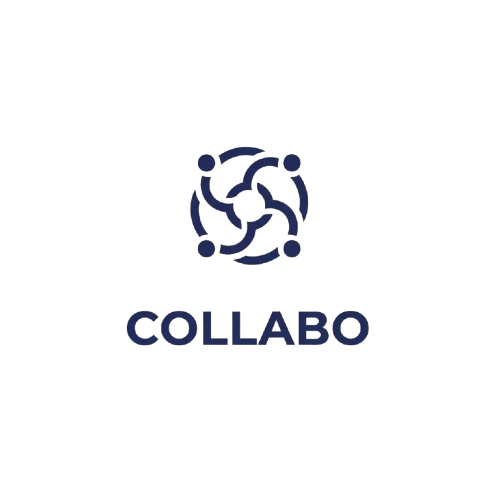
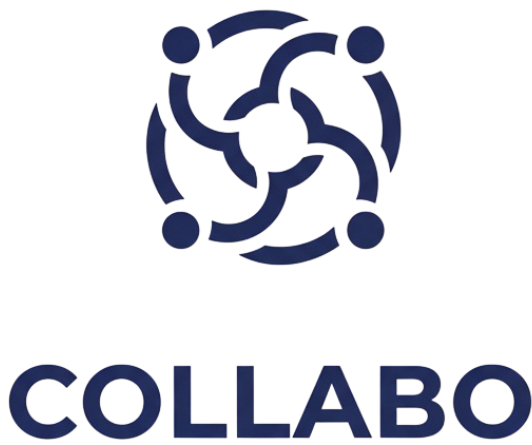
darkmode

Changed region(s): [[0.24, 0.0, 0.78, 0.7011], [0.0, 0.818, 1.0, 0.9933]]

diff --git a/components/layout/Sidebar.tsx b/components/layout/Sidebar.tsx
@@ -47,9 +47,24 @@ export function Sidebar() {
 
     return (
         <aside className="flex flex-col h-screen w-52 border-r bg-background" aria-label="Main navigation">
-            <div className="px-4 pt-4 pb-0 border-b flex items-center justify-center z-10 relative">
-                <Link href="/dashboard" className="flex items-center gap-2" aria-label="Collabo Home">
-                    <Image src="/logo.png?v=4" alt="Collabo Logo" width={200} height={80} className="h-36 w-auto -mb-6 -mt-10" priority />
+            <div className="px-4 py-6 border-b flex items-center justify-center z-10 relative">
+                <Link href="/dashboard" className="flex flex-col items-center gap-2" aria-label="Collabo Home">
+                    <Image 
+                        src="/icon.png" 
+                        alt="Collabo Logo" 
+                        width={80} 
+                        height={80} 
+                        className="h-16 w-auto dark:hidden" 
+                        priority 
+                    />
+                    <Image 
+                        src="/collabologowhitenoback.png" 
+                        alt="Collabo Logo" 
+                        width={80} 
+                        height={80} 
+                        className="h-16 w-auto hidden dark:block" 
+                        priority 
+                    />
                 </Link>
             </div>
 

diff --git a/app/globals.css b/app/globals.css
@@ -54,25 +54,25 @@
   }
 
   .dark {
-    --background: 222.2 84% 4.9%;
-    --foreground: 210 40% 98%;
-    --card: 222.2 84% 4.9%;
-    --card-foreground: 210 40% 98%;
-    --popover: 222.2 84% 4.9%;
-    --popover-foreground: 210 40% 98%;
-    --primary: 204 100% 24.3%;
-    --primary-foreground: 210 40% 98%;
-    --secondary: 217.2 32.6% 17.5%;
-    --secondary-foreground: 210 40% 98%;
-    --muted: 217.2 32.6% 17.5%;
-    --muted-foreground: 215 20.2% 65.1%;
-    --accent: 217.2 32.6% 17.5%;
-    --accent-foreground: 210 40% 98%;
-    --destructive: 0 62.8% 30.6%;
-    --destructive-foreground: 210 40% 98%;
-    --border: 217.2 32.6% 17.5%;
-    --input: 217.2 32.6% 17.5%;
-    --ring: 212.7 26.8% 83.9%;
+    --background: 0 0% 0%;
+    --foreground: 0 0% 98%;
+    --card: 0 0% 10%;
+    --card-foreground: 0 0% 98%;
+    --popover: 0 0% 10%;
+    --popover-foreground: 0 0% 98%;
+    --primary: 0 0% 98%;
+    --primary-foreground: 0 0% 0%;
+    --secondary: 0 0% 16%;
+    --secondary-foreground: 0 0% 98%;
+    --muted: 0 0% 14%;
+    --muted-foreground: 0 0% 65%;
+    --accent: 0 0% 16%;
+    --accent-foreground: 0 0% 98%;
+    --destructive: 0 84% 60%;
+    --destructive-foreground: 0 0% 100%;
+    --border: 0 0% 20%;
+    --input: 0 0% 16%;
+    --ring: 0 0% 98%;
   }
 }
 

diff --git a/app/page.tsx b/app/page.tsx
@@ -28,7 +28,7 @@ export default async function Home() {
           <div className="w-full px-6 md:px-8 h-24 flex items-center justify-between">
             <div className="flex items-center">
               <Link href="/" aria-label="Collabo Home">
-                <Image src="/logo.png?v=2" alt="Collabo Logo" width={360} height={144} className="h-36 w-auto" priority />
+                <Image src="/icon.png" alt="Collabo Logo" width={360} height={144} className="h-36 w-auto" priority />
               </Link>
             </div>
             <div className="flex items-center gap-4">
@@ -137,7 +137,7 @@ export default async function Home() {
       <footer className="border-t py-12 bg-muted/20" role="contentinfo">
         <div className="container mx-auto px-4 text-center">
           <div className="flex justify-center mb-4">
-            <Image src="/logo.png?v=2" alt="Collabo Logo" width={300} height={128} className="h-32 w-auto opacity-80" />
+            <Image src="/icon.png" alt="Collabo Logo" width={300} height={128} className="h-32 w-auto opacity-80" />
           </div>
           <p className="text-muted-foreground text-sm mb-8 max-w-md mx-auto">
             The modern solution for time and project management.

diff --git a/components/layout/Navbar.tsx b/components/layout/Navbar.tsx
@@ -32,7 +32,7 @@ export function Navbar() {
             <div className="flex h-16 items-center px-4 container mx-auto">
                 <div className="mr-8 hidden md:flex">
                     <Link href="/dashboard" className="flex items-center gap-2">
-                        <Image src="/logo.png?v=2" alt="Collabo Logo" width={140} height={56} className="h-14 w-auto" priority />
+                        <Image src="/icon.png" alt="Collabo Logo" width={140} height={56} className="h-14 w-auto" priority />
                     </Link>
                 </div>
                 <nav className="flex items-center space-x-4 lg:space-x-6 mx-6">

diff --git a/app/api/auth/forgot-password/route.ts b/app/api/auth/forgot-password/route.ts
@@ -56,7 +56,7 @@ export async function POST(req: Request) {
         const resetUrl = `${process.env.NEXTAUTH_URL}/reset-password?token=${resetToken}`
 
         // Logo URL - assumes NEXTAUTH_URL points to the live site
-        const logoUrl = `${process.env.NEXTAUTH_URL}/logo.png`
+        const logoUrl = `${process.env.NEXTAUTH_URL}/icon.png`
 
         // Professional HTML Email Template
         const htmlContent = `
